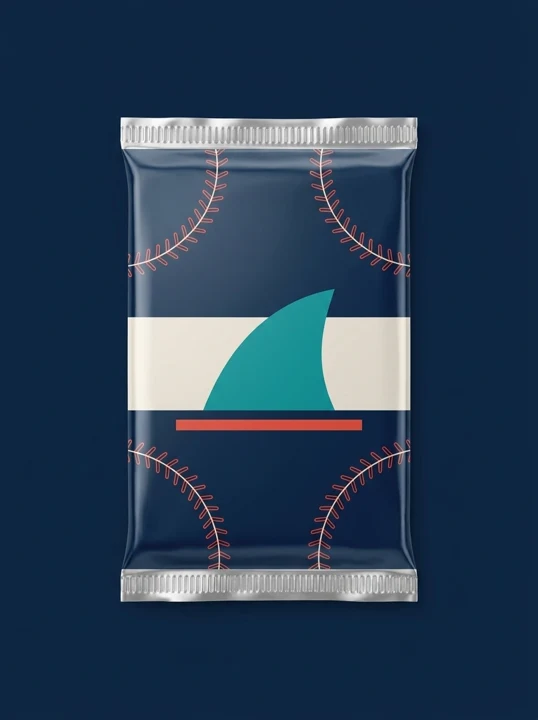
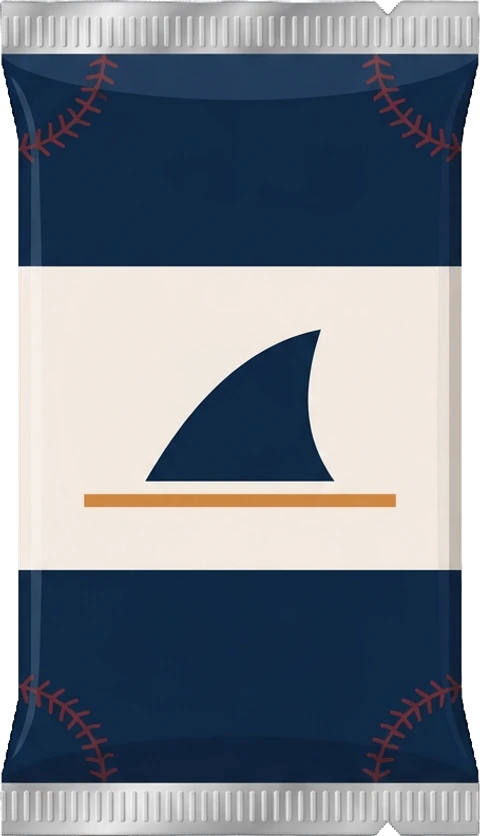
Quiet shark packs keyed to alpha (navy fin on a gold line, no sparks); art script trimmed to packs + stages
Claude-Session: https://claude.ai/code/session_01C21R1RvsDWRQTDAGaVR2rg

diff --git a/app/(shop)/page.tsx b/app/(shop)/page.tsx
@@ -30,7 +30,7 @@ export default async function Home() {
               <Stage category={it.key} className="flex aspect-[4/5] items-center justify-center rounded-lg border-b-2 border-gold p-12">
                 <div className={`w-36 transition-transform duration-200 group-hover:-translate-y-1 ${it.open ? "" : "opacity-50 grayscale"}`}>
                   {/* eslint-disable-next-line @next/next/no-img-element */}
-                  <img src={packStill(it.key)} alt="" className="clip-soft pack-shadow w-full" />
+                  <img src={packStill(it.key)} alt="" className="pack-shadow w-full" />
                 </div>
               </Stage>
               <div className="pt-3 text-center">

diff --git a/app/(shop)/packs/[category]/Game.tsx b/app/(shop)/packs/[category]/Game.tsx
@@ -156,7 +156,7 @@ export function Game(p: GameProps) {
   // This category's sealed shark pack (public/brand). The only object with a shadow.
   const packArt = (cls = "") => (
     // eslint-disable-next-line @next/next/no-img-element
-    <img src={packStill(p.category)} alt="" className={`clip-soft pack-shadow w-full ${cls}`} draggable={false} />
+    <img src={packStill(p.category)} alt="" className={`pack-shadow w-full ${cls}`} draggable={false} />
   );
   // The seal split: the crimped top lifts away while the body drops and fades.
   const sealSplit = (

diff --git a/app/globals.css b/app/globals.css
@@ -180,11 +180,6 @@ kbd {
   from { transform: rotateY(180deg); }
   to { transform: rotateY(0deg); }
 }
-/* Veo's navy is a shade off the page's: feather the clip's edges so it sits in the page, not in a box. */
-.clip-soft {
-  -webkit-mask-image: radial-gradient(ellipse 50% 50% at 50% 50%, #000 62%, transparent 100%);
-  mask-image: radial-gradient(ellipse 50% 50% at 50% 50%, #000 62%, transparent 100%);
-}
 /* After the pass puff, the pack stays faded: it's gone for you. */
 .gone {
   opacity: 0.25;
